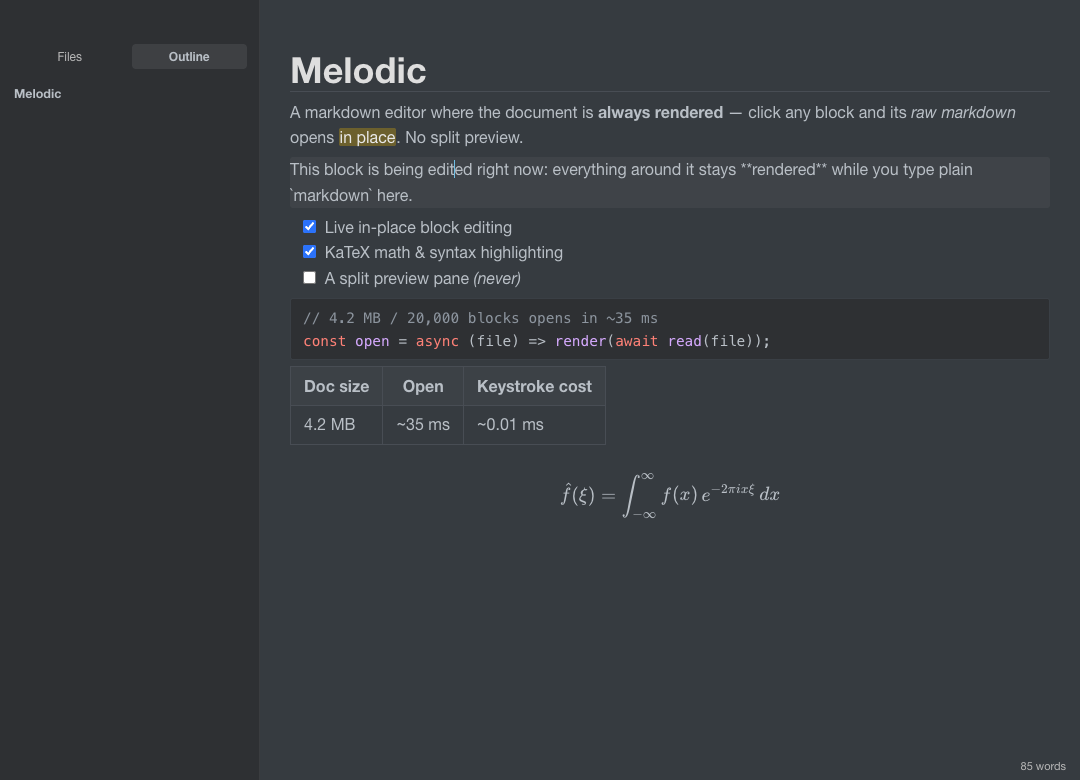
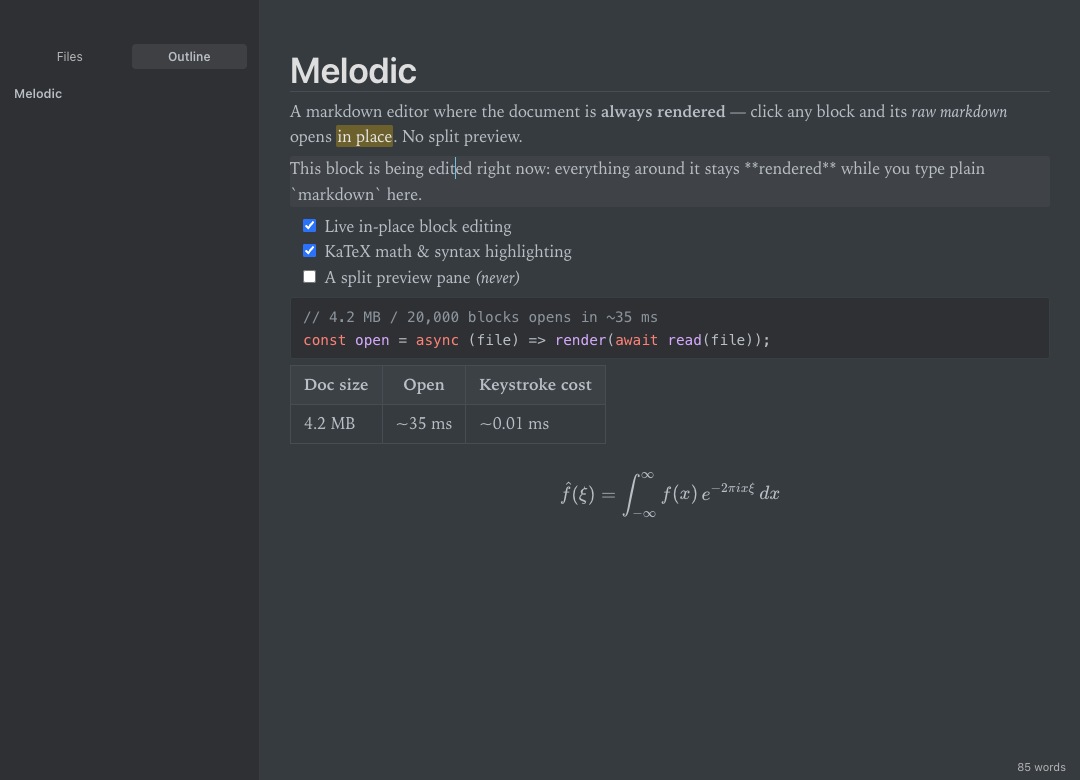
Default typography: New York serif prose with SF sans headings
Prose reads in ui-serif (New York → Iowan Old Style → Charter → Songti SC),
headings and app chrome stay in the native sans, code stays SF Mono.
README screenshots retaken in the new type.

diff --git a/renderer/css/theme-github.css b/renderer/css/theme-github.css
@@ -24,8 +24,8 @@ html {
 }
 
 body {
-  font-family: "Open Sans", "Clear Sans", "Helvetica Neue", Helvetica, Arial,
-    "Segoe UI Emoji", "SF Pro", sans-serif;
+  /* app chrome (sidebar, footer) stays native sans */
+  font-family: -apple-system, system-ui, "PingFang SC", "Helvetica Neue", Arial, sans-serif;
   color: var(--text-color);
   line-height: 1.6;
   background: var(--bg-color);
@@ -35,6 +35,8 @@ body {
   max-width: 860px;
   margin: 0 auto;
   padding: 48px 30px 100px 30px;
+  /* prose reads in New York — Apple's book serif — with elegant fallbacks */
+  font-family: ui-serif, "New York", "Iowan Old Style", Charter, "Songti SC", Georgia, serif;
 }
 
 @media only screen and (min-width: 1400px) {
@@ -51,9 +53,12 @@ body {
   position: relative;
   margin-top: 1rem;
   margin-bottom: 1rem;
-  font-weight: bold;
+  font-weight: 600;
   line-height: 1.4;
   cursor: text;
+  /* headings contrast in the native sans */
+  font-family: -apple-system, system-ui, "PingFang SC", sans-serif;
+  letter-spacing: -0.01em;
 }
 #write h1 { font-size: 2.25em; line-height: 1.2; border-bottom: 1px solid var(--heading-border-color); }
 #write h2 { font-size: 1.75em; line-height: 1.225; border-bottom: 1px solid var(--heading-border-color); }

diff --git a/renderer/css/theme-night.css b/renderer/css/theme-night.css
@@ -24,8 +24,8 @@ html {
 }
 
 body {
-  font-family: "Open Sans", "Clear Sans", "Helvetica Neue", Helvetica, Arial,
-    "Segoe UI Emoji", "SF Pro", sans-serif;
+  /* app chrome (sidebar, footer) stays native sans */
+  font-family: -apple-system, system-ui, "PingFang SC", "Helvetica Neue", Arial, sans-serif;
   color: var(--text-color);
   line-height: 1.6;
   background: var(--bg-color);
@@ -36,6 +36,8 @@ body {
   margin: 0 auto;
   padding: 48px 30px 100px 30px;
   caret-color: #6dc1e7;
+  /* prose reads in New York — Apple's book serif — with elegant fallbacks */
+  font-family: ui-serif, "New York", "Iowan Old Style", Charter, "Songti SC", Georgia, serif;
 }
 
 @media only screen and (min-width: 1400px) {
@@ -52,10 +54,13 @@ body {
   position: relative;
   margin-top: 1rem;
   margin-bottom: 1rem;
-  font-weight: bold;
+  font-weight: 600;
   line-height: 1.4;
   cursor: text;
   color: #dedede;
+  /* headings contrast in the native sans */
+  font-family: -apple-system, system-ui, "PingFang SC", sans-serif;
+  letter-spacing: -0.01em;
 }
 #write h1 { font-size: 2.25em; line-height: 1.2; border-bottom: 1px solid var(--heading-border-color); }
 #write h2 { font-size: 1.75em; line-height: 1.225; border-bottom: 1px solid var(--heading-border-color); }